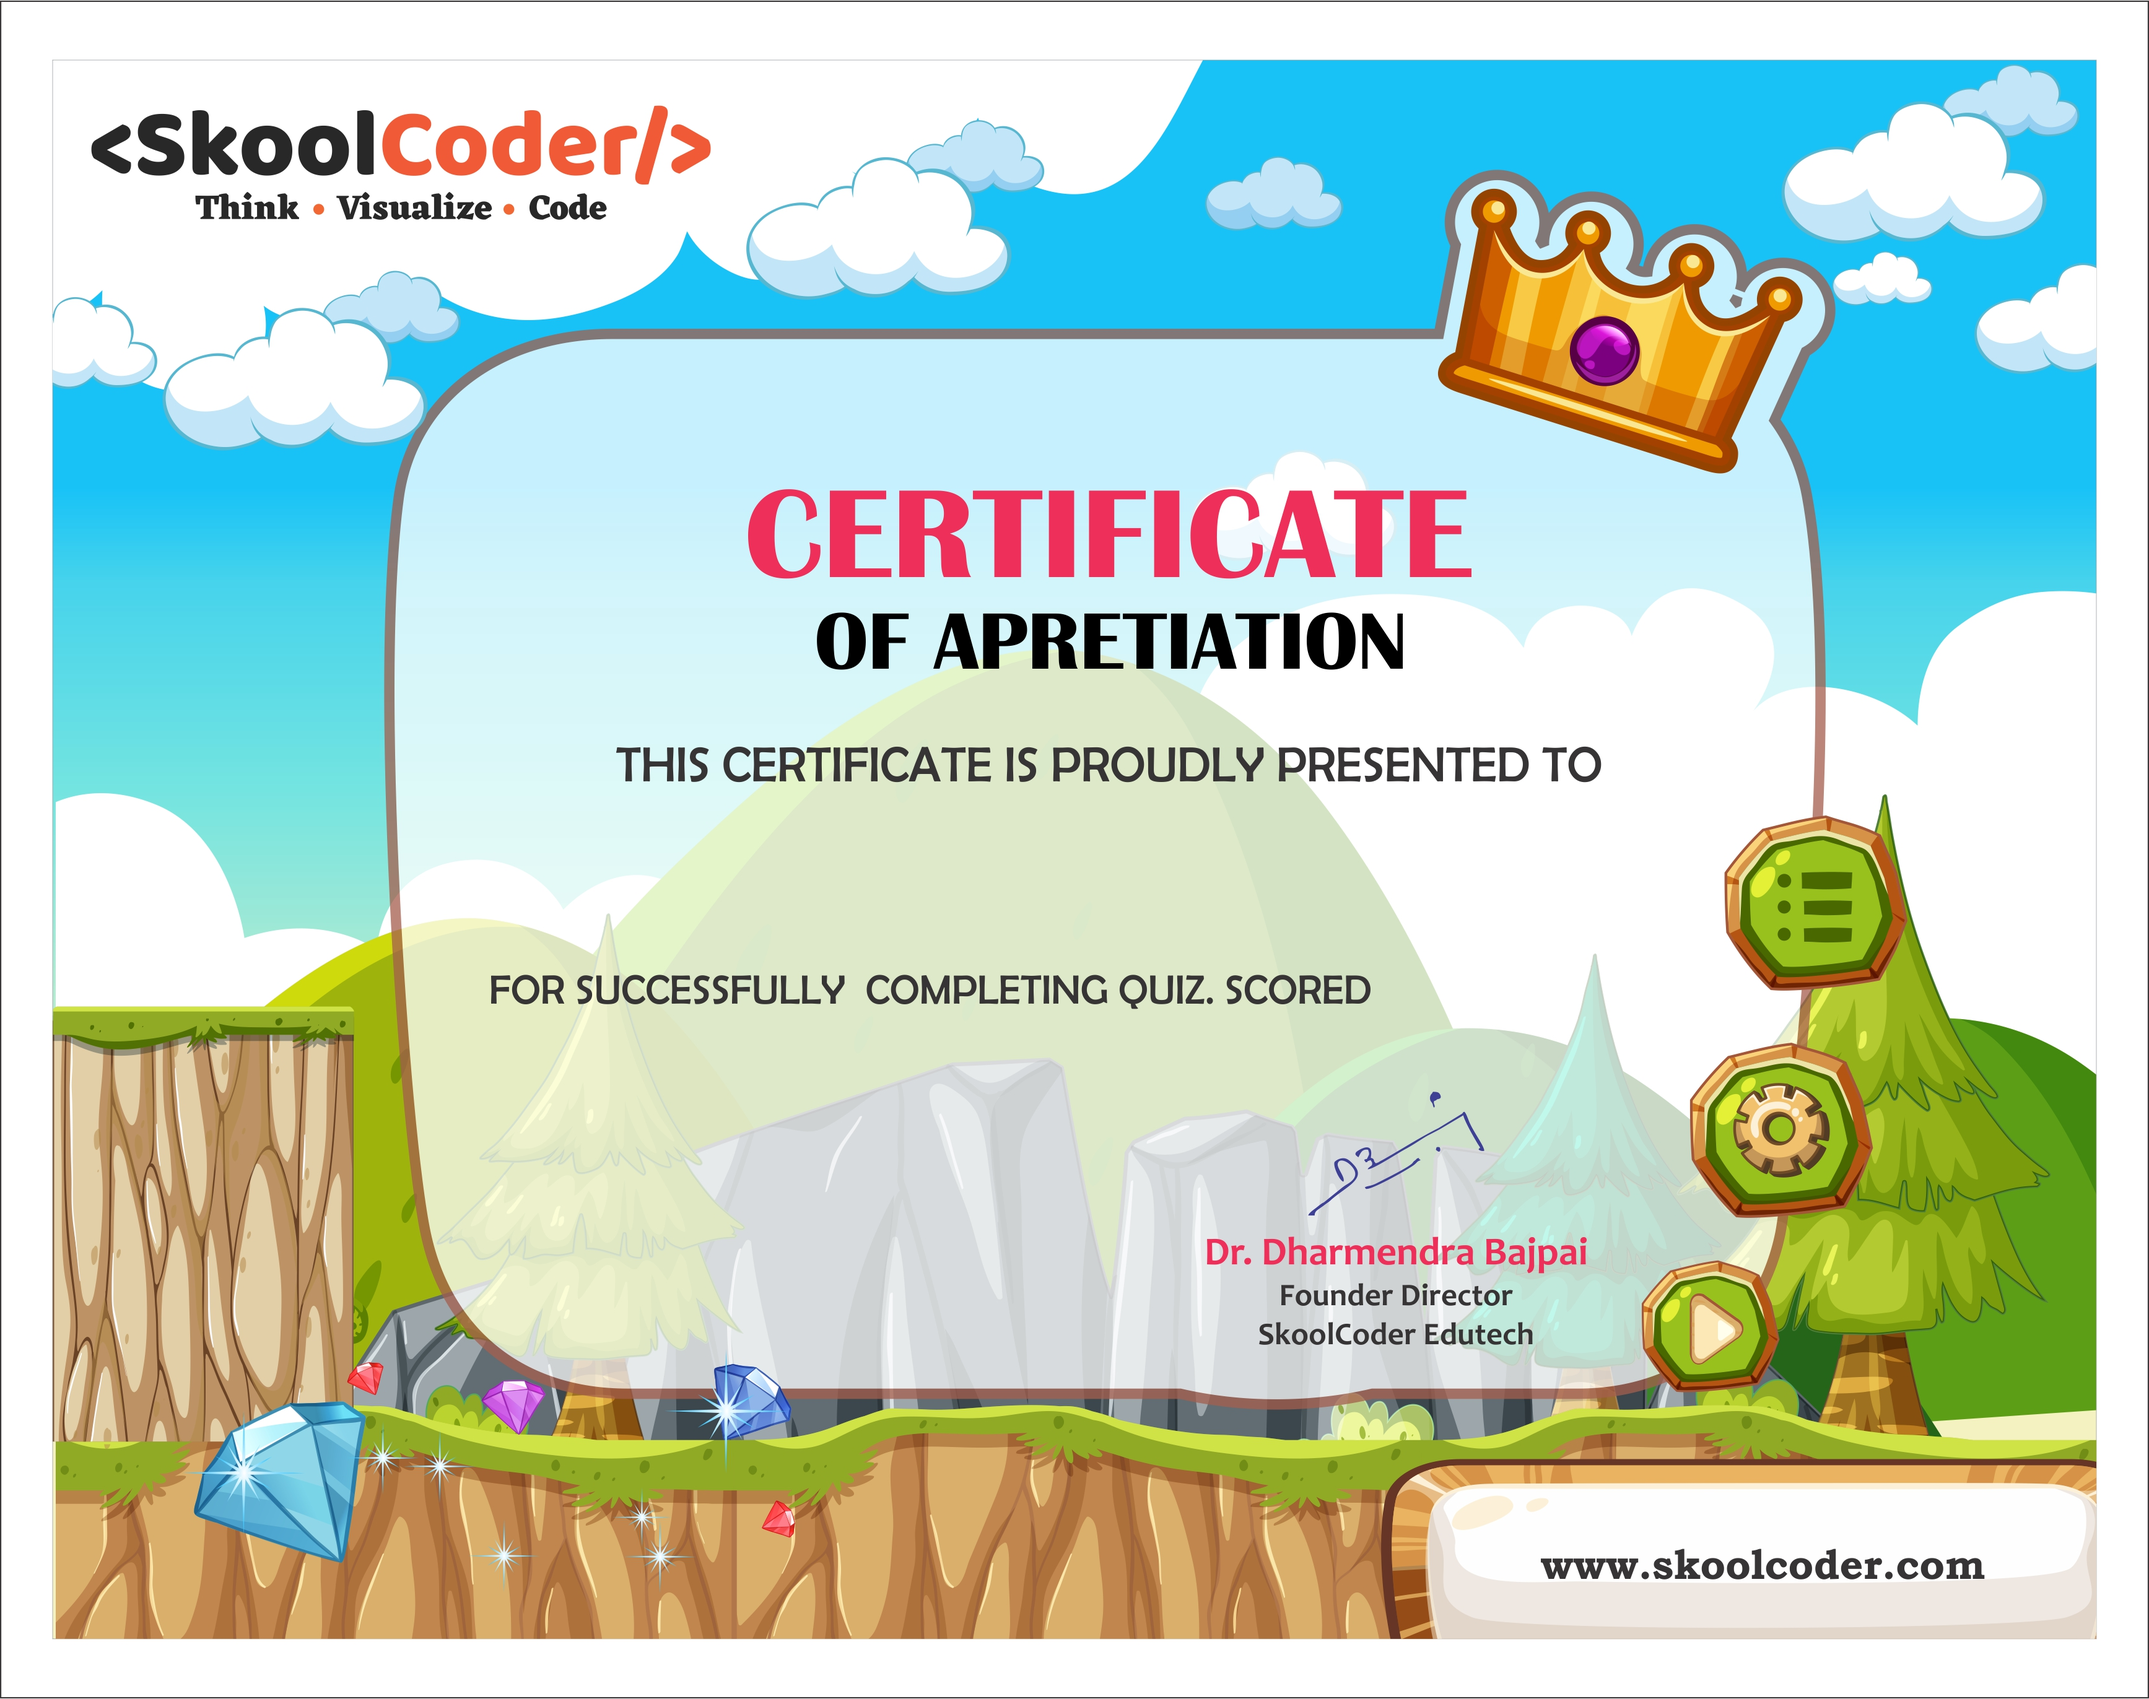
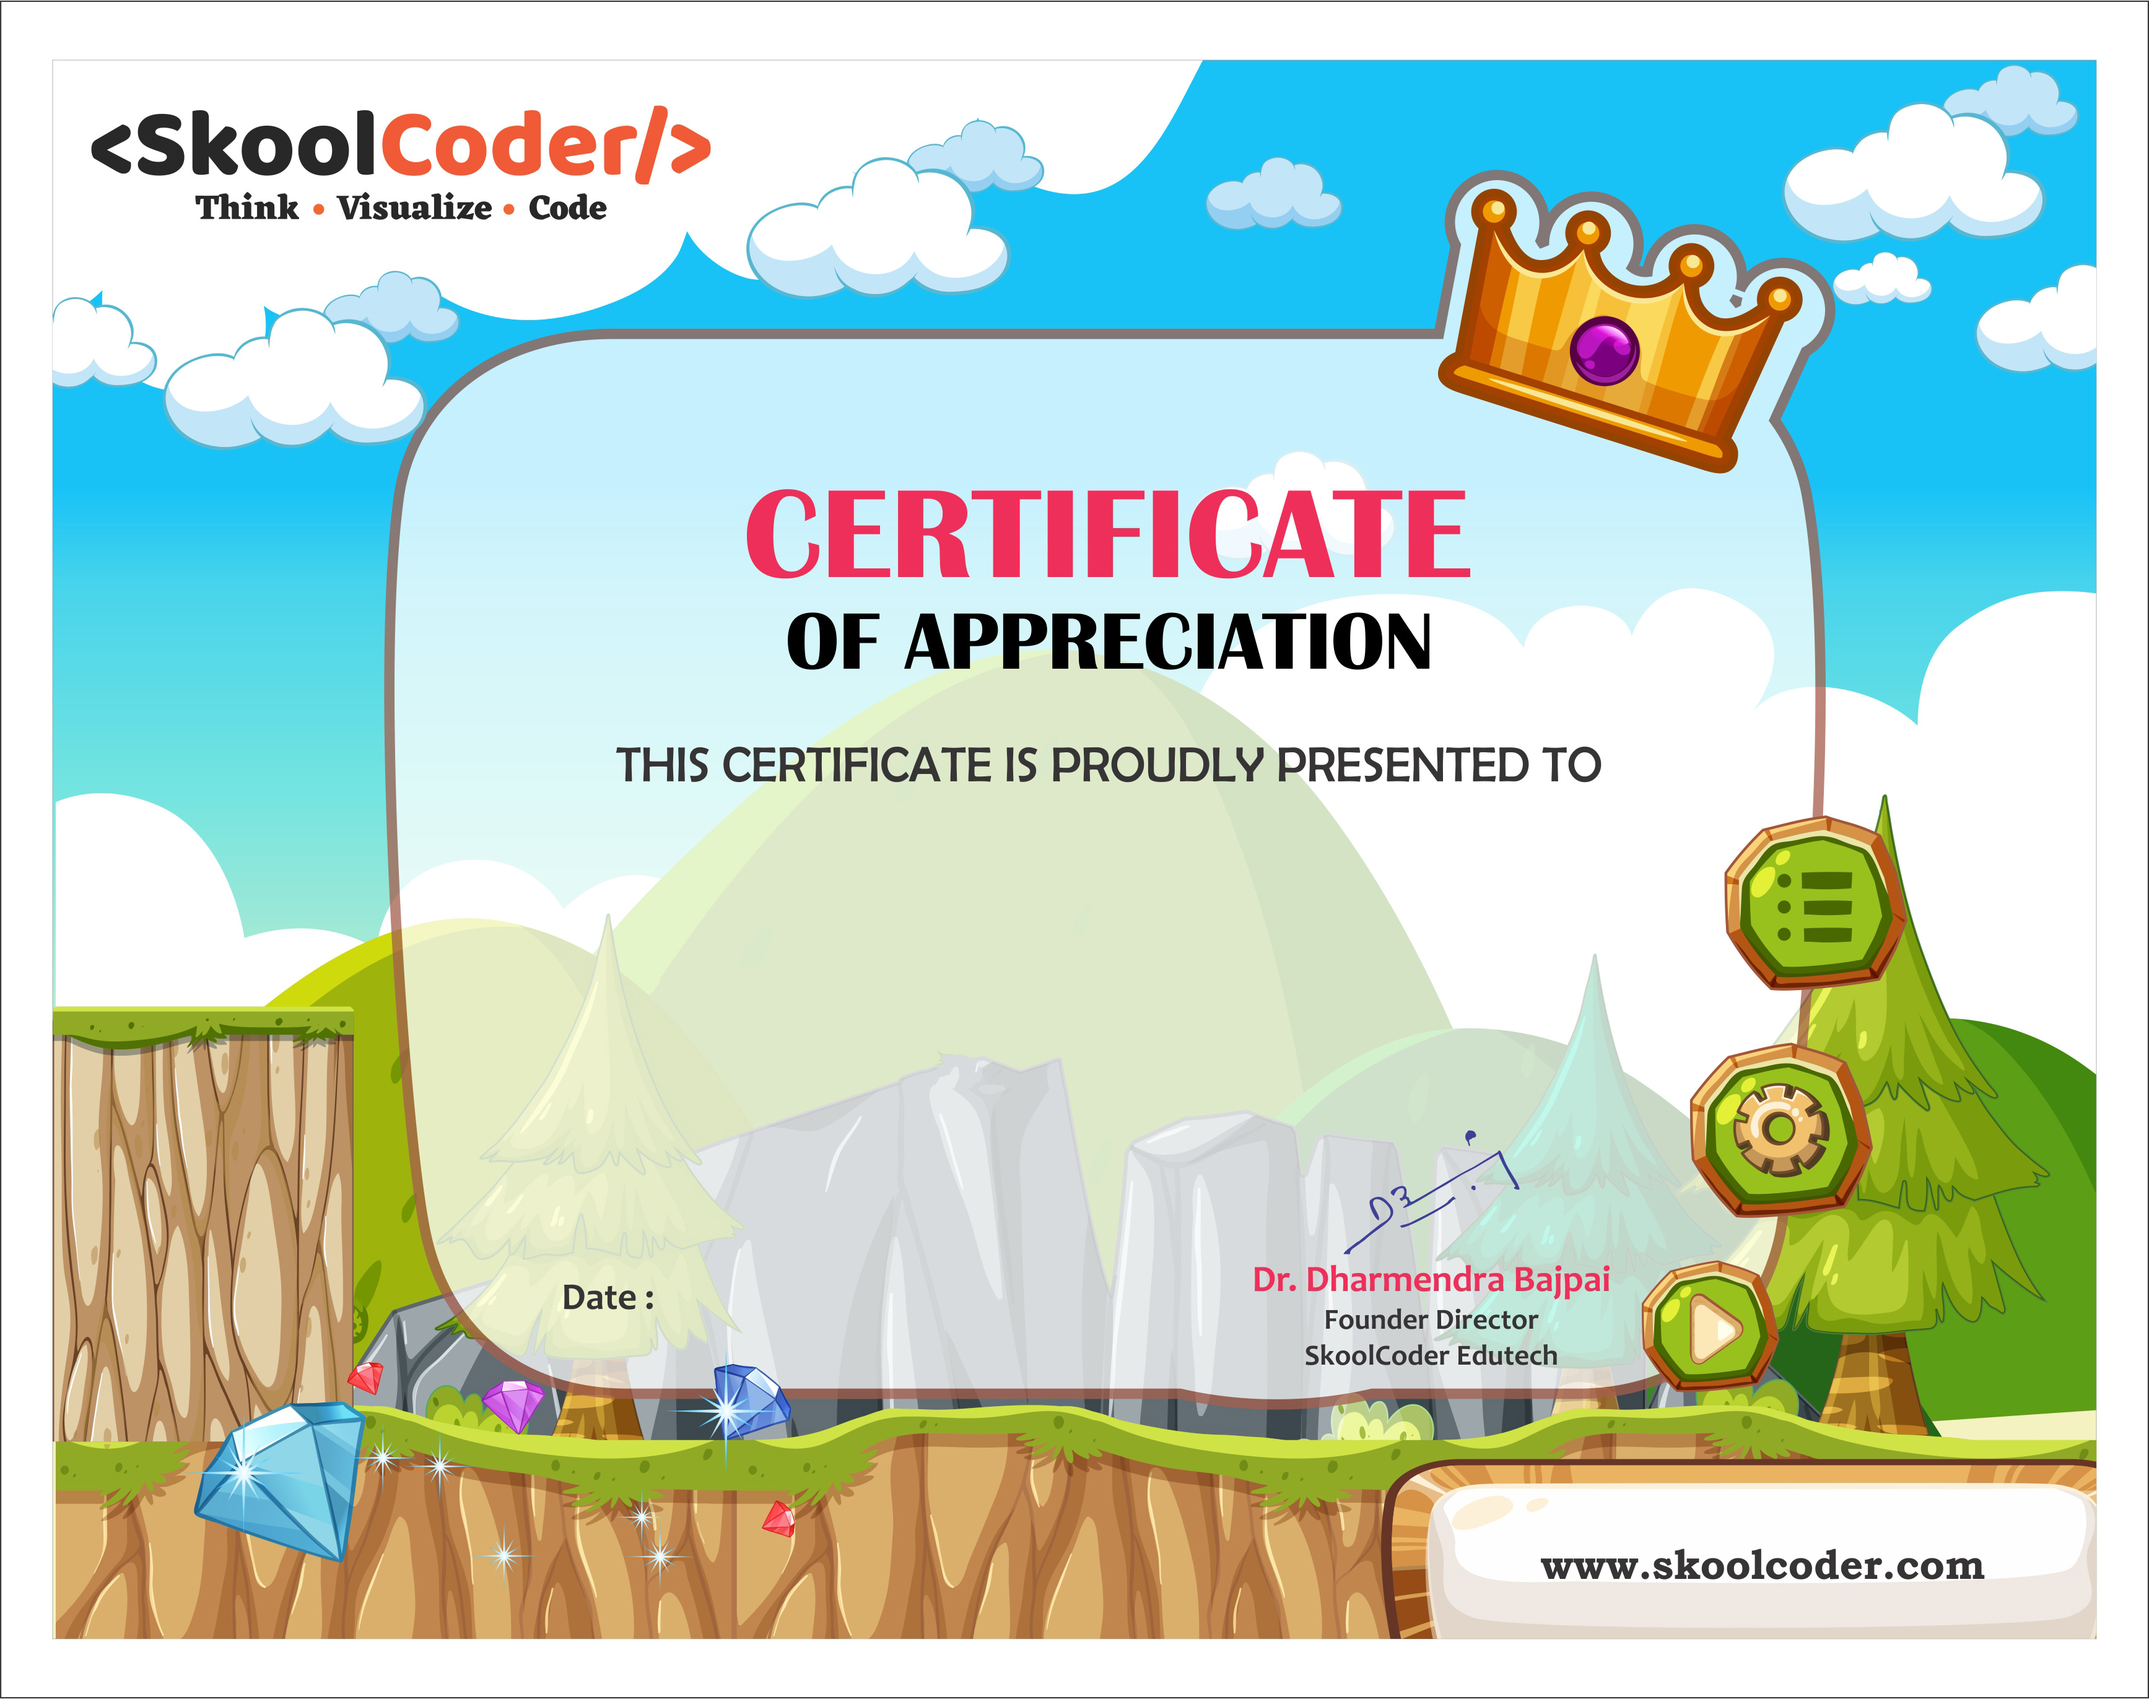
first

diff --git a/src/component/QuizMain.js b/src/component/QuizMain.js
@@ -326,13 +326,15 @@ getCurrentDate=(separator='')=>{
                     {/* <p>Thank you!</p> */}
                     </div>
                     <div style={{position:'absolute',bottom: '38%',right:'35%'}}>
-                    <p style={{color: 'black',fontWeight:'bold',position: 'relative',left:'60px',top:'-15px'}}>
-                        {score} <span style={{fontSize:'9px'}}>Out of </span> {Object.keys(quiestions).length}
+                    
+                    <p style={{color: 'black',fontWeight:'bold',position: 'relative',left:'102px',top:'17px' , fontSize: '18px'}}>
+                         <span style={{fontSize:'14px'}}>For Successfully Completing Computer Fundamental Quiz.<br/>
+                        Scored {score} Out of </span> {Object.keys(quiestions).length}  .
                     </p>
                     
                     </div>
                     <div style={{position: 'absolute',bottom: '25%',left: '25%'}}>
-                    <p>{this.getCurrentDate()}</p>
+                    <p style={{fontSize:'13px'}}>{this.getCurrentDate()}</p>
                     </div>
                   </div> 
                   {console.log(name,'jsx')}

diff --git a/src/component/QuizMain6.js b/src/component/QuizMain6.js
@@ -274,14 +274,14 @@ export default class Quiz extends Component {
                       style={{ width: "100%", height: "auto" }}
                     />
                     <div style={{position:'absolute',top: '46.5%',left:'43%'}}> 
-       <h1 style={{color:'red'}}>
+       <h1 className='font' style={{color:'red'}}>
             {name.value}
                     </h1>
                   
                     {/* <p>Thank you!</p> */}
                     </div>
                     <div style={{position:'absolute',bottom: '38%',right:'35%'}}>
-                    <p style={{color: 'black',fontWeight:'bold',position: 'relative',left:'60px',top:'-15px'}}>
+                    <p className='font' style={{color: 'black',fontWeight:'bold',position: 'relative',left:'60px',top:'-15px'}}>
                         {score} <span style={{fontSize:'9px'}}>Out of </span> {Object.keys(quiestions).length}
                     </p>
                     

diff --git a/src/component/QuizMain.css b/src/component/QuizMain.css
@@ -1,3 +1,4 @@
+@import url('https://fonts.googleapis.com/css2?family=Ubuntu:wght@500&display=swap');
 .NextStep{
     background-color: #009e00;
     color:#fff;
@@ -38,3 +39,6 @@
     display: flex;
 }
 
+.font{
+    font-family: 'Ubuntu', sans-serif;
+}
